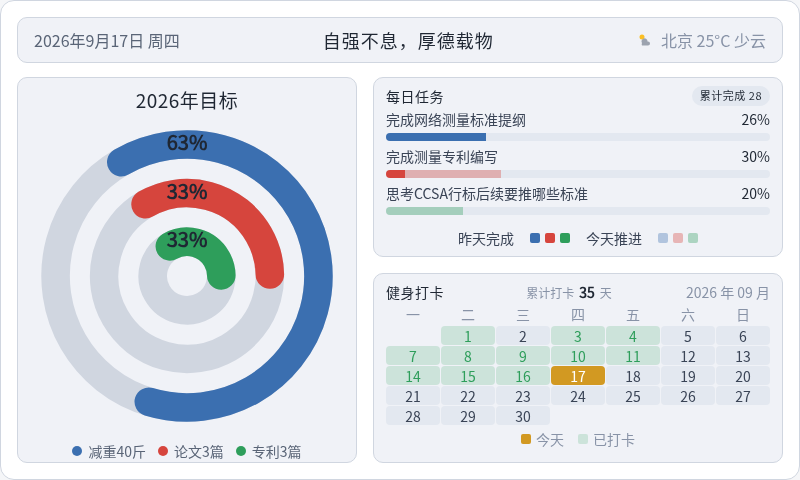
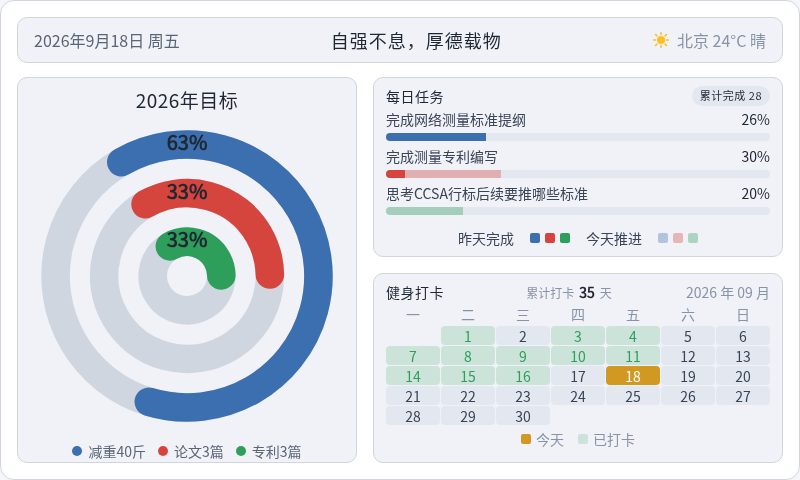
chore: 每日看板刷新 2026-09-18

diff --git a/output/dashboard/dashboard.html b/output/dashboard/dashboard.html
@@ -185,11 +185,11 @@
 <body>
   <div class="dash">
     <div class="topbar">
-      <div class="tb-date" id="tbDate">2026年9月17日 周四</div>
+      <div class="tb-date" id="tbDate">2026年9月18日 周五</div>
       <div class="tb-slogan">自强不息，厚德载物</div>
       <div class="tb-weather">
-        <svg width="16" height="16" viewBox="0 0 16 16" aria-hidden="true"><circle cx="5" cy="5" r="2.5" fill="#fbbf24"/><path d="M5 11 a3 3 0 1 1 5.5 -1.5 h0.5 a2 2 0 1 1 0 4 H5 a2.5 2.5 0 0 1 0 -2.5z" fill="#9ca3af"/></svg>
-        <span>北京 25°C 少云</span>
+        <svg width="16" height="16" viewBox="0 0 16 16" aria-hidden="true"><circle cx="8" cy="8" r="4" fill="#fbbf24"/><g stroke="#fbbf24" stroke-width="1.5" stroke-linecap="round"><line x1="8" y1="0.5" x2="8" y2="2.5"/><line x1="8" y1="13.5" x2="8" y2="15.5"/><line x1="0.5" y1="8" x2="2.5" y2="8"/><line x1="13.5" y1="8" x2="15.5" y2="8"/><line x1="2.5" y1="2.5" x2="3.9" y2="3.9"/><line x1="12.1" y1="12.1" x2="13.5" y2="13.5"/><line x1="13.5" y1="2.5" x2="12.1" y2="3.9"/><line x1="3.9" y1="12.1" x2="2.5" y2="13.5"/></g></svg>
+        <span>北京 24°C 晴</span>
       </div>
     </div>
     <div class="content">
@@ -248,7 +248,7 @@
           <span class="cal-date">2026 年 09 月</span>
         </div>
         <div class="cal-grid wk"><span>一</span><span>二</span><span>三</span><span>四</span><span>五</span><span>六</span><span>日</span></div>
-        <div class="cal-grid"><span class="cell empty"></span><span class="cell done" style="background:rgba(46,158,91,0.18);color:#2e9e5b">1</span><span class="cell" style="background:#e3e8f0;color:#3a4456">2</span><span class="cell done" style="background:rgba(46,158,91,0.18);color:#2e9e5b">3</span><span class="cell done" style="background:rgba(46,158,91,0.18);color:#2e9e5b">4</span><span class="cell" style="background:#e3e8f0;color:#3a4456">5</span><span class="cell" style="background:#e3e8f0;color:#3a4456">6</span><span class="cell done" style="background:rgba(46,158,91,0.18);color:#2e9e5b">7</span><span class="cell done" style="background:rgba(46,158,91,0.18);color:#2e9e5b">8</span><span class="cell done" style="background:rgba(46,158,91,0.18);color:#2e9e5b">9</span><span class="cell done" style="background:rgba(46,158,91,0.18);color:#2e9e5b">10</span><span class="cell done" style="background:rgba(46,158,91,0.18);color:#2e9e5b">11</span><span class="cell" style="background:#e3e8f0;color:#3a4456">12</span><span class="cell" style="background:#e3e8f0;color:#3a4456">13</span><span class="cell done" style="background:rgba(46,158,91,0.18);color:#2e9e5b">14</span><span class="cell done" style="background:rgba(46,158,91,0.18);color:#2e9e5b">15</span><span class="cell done" style="background:rgba(46,158,91,0.18);color:#2e9e5b">16</span><span class="cell today" style="background:#d29922;color:#ffffff">17</span><span class="cell" style="background:#e3e8f0;color:#3a4456">18</span><span class="cell" style="background:#e3e8f0;color:#3a4456">19</span><span class="cell" style="background:#e3e8f0;color:#3a4456">20</span><span class="cell" style="background:#e3e8f0;color:#3a4456">21</span><span class="cell" style="background:#e3e8f0;color:#3a4456">22</span><span class="cell" style="background:#e3e8f0;color:#3a4456">23</span><span class="cell" style="background:#e3e8f0;color:#3a4456">24</span><span class="cell" style="background:#e3e8f0;color:#3a4456">25</span><span class="cell" style="background:#e3e8f0;color:#3a4456">26</span><span class="cell" style="background:#e3e8f0;color:#3a4456">27</span><span class="cell" style="background:#e3e8f0;color:#3a4456">28</span><span class="cell" style="background:#e3e8f0;color:#3a4456">29</span><span class="cell" style="background:#e3e8f0;color:#3a4456">30</span></div>
+        <div class="cal-grid"><span class="cell empty"></span><span class="cell done" style="background:rgba(46,158,91,0.18);color:#2e9e5b">1</span><span class="cell" style="background:#e3e8f0;color:#3a4456">2</span><span class="cell done" style="background:rgba(46,158,91,0.18);color:#2e9e5b">3</span><span class="cell done" style="background:rgba(46,158,91,0.18);color:#2e9e5b">4</span><span class="cell" style="background:#e3e8f0;color:#3a4456">5</span><span class="cell" style="background:#e3e8f0;color:#3a4456">6</span><span class="cell done" style="background:rgba(46,158,91,0.18);color:#2e9e5b">7</span><span class="cell done" style="background:rgba(46,158,91,0.18);color:#2e9e5b">8</span><span class="cell done" style="background:rgba(46,158,91,0.18);color:#2e9e5b">9</span><span class="cell done" style="background:rgba(46,158,91,0.18);color:#2e9e5b">10</span><span class="cell done" style="background:rgba(46,158,91,0.18);color:#2e9e5b">11</span><span class="cell" style="background:#e3e8f0;color:#3a4456">12</span><span class="cell" style="background:#e3e8f0;color:#3a4456">13</span><span class="cell done" style="background:rgba(46,158,91,0.18);color:#2e9e5b">14</span><span class="cell done" style="background:rgba(46,158,91,0.18);color:#2e9e5b">15</span><span class="cell done" style="background:rgba(46,158,91,0.18);color:#2e9e5b">16</span><span class="cell" style="background:#e3e8f0;color:#3a4456">17</span><span class="cell today" style="background:#d29922;color:#ffffff">18</span><span class="cell" style="background:#e3e8f0;color:#3a4456">19</span><span class="cell" style="background:#e3e8f0;color:#3a4456">20</span><span class="cell" style="background:#e3e8f0;color:#3a4456">21</span><span class="cell" style="background:#e3e8f0;color:#3a4456">22</span><span class="cell" style="background:#e3e8f0;color:#3a4456">23</span><span class="cell" style="background:#e3e8f0;color:#3a4456">24</span><span class="cell" style="background:#e3e8f0;color:#3a4456">25</span><span class="cell" style="background:#e3e8f0;color:#3a4456">26</span><span class="cell" style="background:#e3e8f0;color:#3a4456">27</span><span class="cell" style="background:#e3e8f0;color:#3a4456">28</span><span class="cell" style="background:#e3e8f0;color:#3a4456">29</span><span class="cell" style="background:#e3e8f0;color:#3a4456">30</span></div>
         <div class="cal-legend">
           <span style="color:#8893a7"><i class="sw" style="background:#d29922"></i>今天</span>
           <span style="color:#8893a7"><i class="sw" style="background:rgba(46,158,91,0.18)"></i>已打卡</span>
